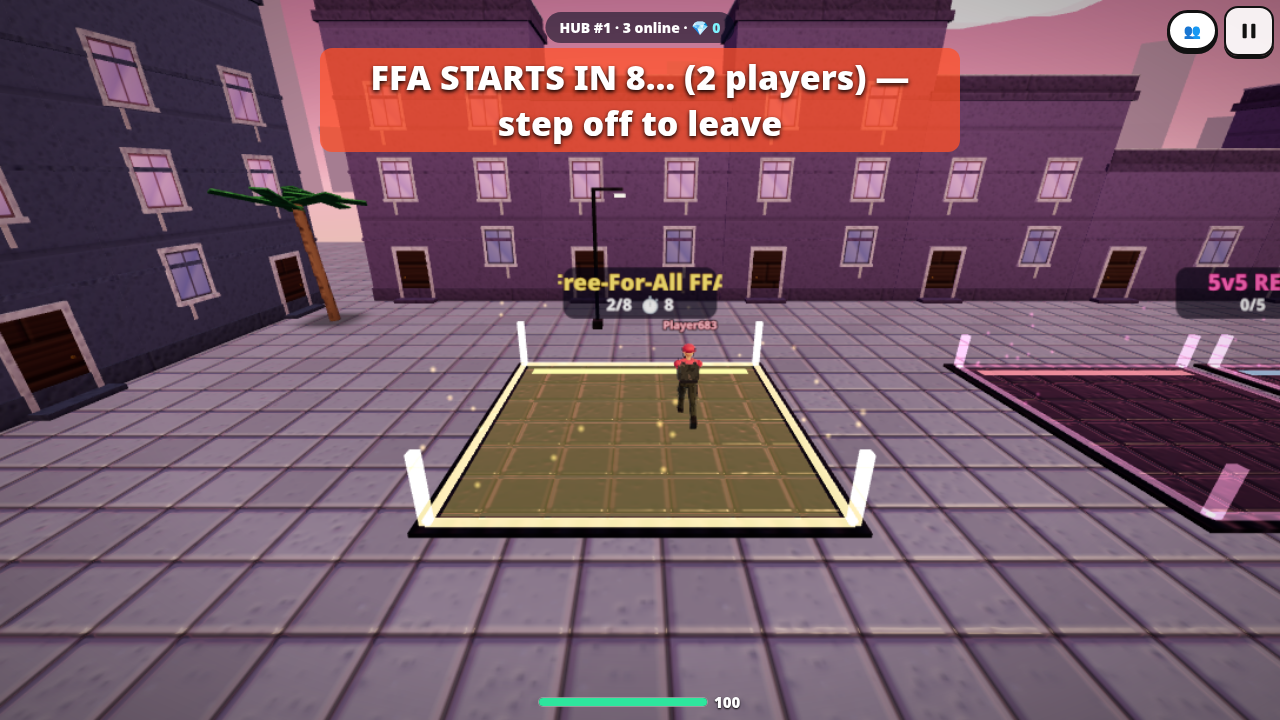
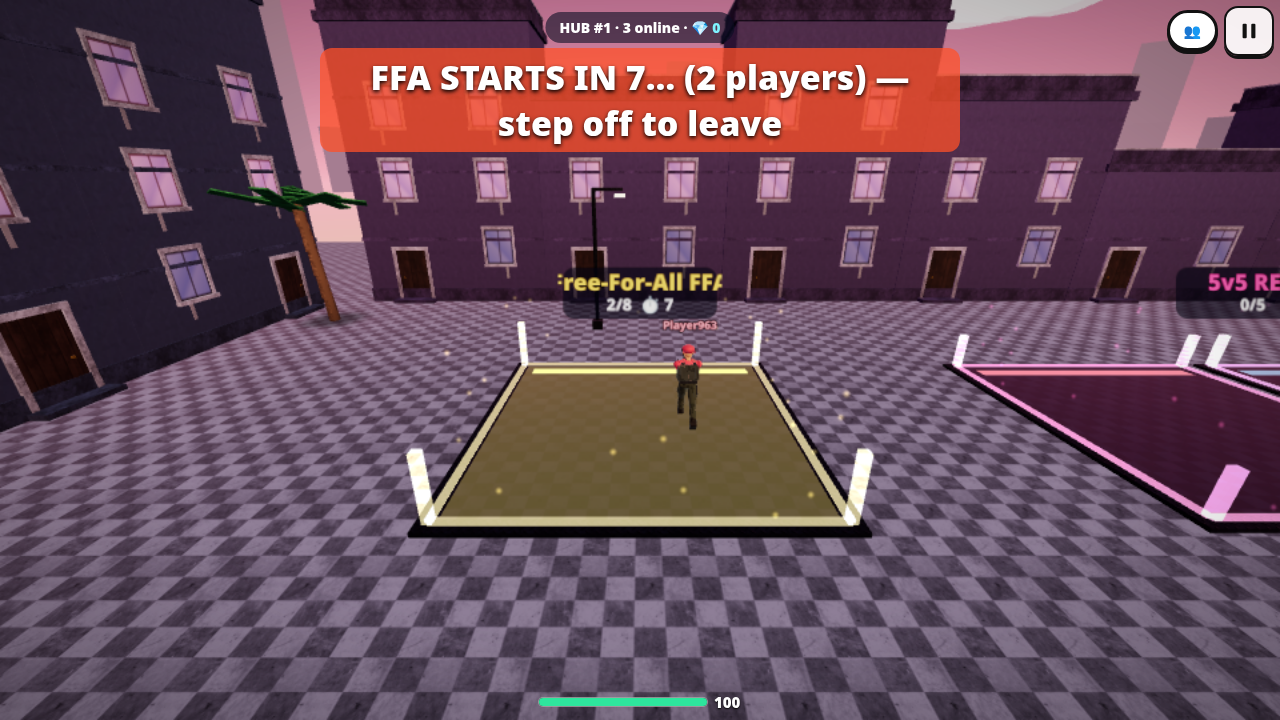
Solo hub FFA: countdown + online/offline choice; joinable solo host (pad/quick/friends join-in-progress replaces bots); fix full check counting bots; v37

diff --git a/game.js b/game.js
@@ -497,7 +497,7 @@ function sendSB(){bcast(sbData())}
 function hostLeave(id){if(!H.players[id])return;delete H.players[id];delete conns[id];bcast({t:'bye',id});if(H.phase==='lobby')sendLobby();else{sendSB();checkRound()}}
 function hostHandle(from,m){const p=H.players[from];
  switch(m.t){
- case 'hello':{if(Object.keys(H.players).length>=MAXP){conns[from]?.send({t:'full'});return}if(!conns[from]){const c=peer.connections?.[from]?.[0];if(c)conns[from]=c}
+ case 'hello':{if(Object.values(H.players).filter(q=>!q.bot).length>=MAXP){conns[from]?.send({t:'full'});return}if(!conns[from]){const c=peer.connections?.[from]?.[0];if(c)conns[from]=c}
   const np=H.players[from]=newP(from,String(m.name||'Player').slice(0,12));np.skin=SKINS[m.skin]?m.skin:'default';np.ws=cleanWS(m.ws);np.cl=clOf(m.cl);np.hid=m.hid||null;
   if(H.phase==='lobby')sendLobby();else{if(H.mode==='ffa'){np.team=from;np.color=FFACOL[plist().length%10]}else{np.team=teamSmaller();np.color=TEAMCOL[np.team]}
    {const mx=MODEMAX[H.mode]||MAXP;if(plist().length>mx){const bs=plist().filter(q=>q.bot&&(H.mode==='ffa'||q.team===np.team));const bt=bs.find(q=>!q.alive)||bs[0];if(bt){delete H.players[bt.id];bcast({t:'bye',id:bt.id})}}}
@@ -1154,15 +1154,18 @@ class HubServer{constructor(peer,n){this.peer=peer;this.n=n;this.cl={};this.ord=
    case 'unreg':delete this.rooms[m.code];break;
    case 'list':this.send(c,{t:'rooms',list:this.roomList(),hub:this.players().length});break;
    case 'ping':this.send(c,{t:'pong',ts:m.ts});break}}
- roomList(){const now=Date.now();for(const k in this.rooms)if(now-this.rooms[k].at>16000)delete this.rooms[k];return Object.values(this.rooms).map(r=>({code:r.code,host:r.host,mode:r.mode,map:r.map,n:r.n,max:r.max,phase:r.phase}))}
+ roomList(){const now=Date.now();for(const k in this.rooms)if(now-this.rooms[k].at>16000)delete this.rooms[k];return Object.values(this.rooms).map(r=>({code:r.code,host:r.host,mode:r.mode,map:r.map,n:r.n,max:r.max,phase:r.phase,hubffa:!!r.hubffa}))}
  drop(id){const c=this.cl[id];if(!c)return;delete this.cl[id];for(const k in this.rooms)if(this.rooms[k].by===id)delete this.rooms[k];if(c.kind==='player'){this.bc({t:'hl',o:c.ord});this.lastPads=''}}
  tick(){const now=Date.now();for(const id in this.cl){const c=this.cl[id];if(!c.local&&now-(c.seen||now)>6000)this.drop(id)}const ps=this.players();const free=ps.filter(p=>!p.busy);
   // queue = who is physically standing inside each circle (server-side check, so leaving a circle unqueues instantly)
   const st={};for(const p of HUB_PADS){st[p.k]={};for(const c of padCircles(p))st[p.k][c.side]=free.filter(q=>inPad(c,q.pos[0],q.pos[2])).sort((a,b)=>a.ord-b.ord).slice(0,p.n).map(q=>q.id)}
   // FFA countdown: 10 s once 2+ stand on the pad; a newcomer keeps at least 5 s left (never resets); full pad starts now; <2 cancels
-  const fp=HUB_PADS.find(p=>p.single);if(fp){const n=st[fp.k].F.length;if(n<2)this.ffaEnd=0;else{if(!this.ffaEnd)this.ffaEnd=now+10000;else if(n>this.ffaN)this.ffaEnd=now+Math.max(this.ffaEnd-now,5000);if(n>=fp.n)this.ffaEnd=now}this.ffaN=n}
+  const fp=HUB_PADS.find(p=>p.single);if(fp){const F=st[fp.k].F;this.soloSeen=this.soloSeen||{};for(const id in this.soloSeen)if(!F.includes(id))delete this.soloSeen[id];
+   // anyone stepping on the FFA pad while a hub solo/online FFA room is open joins it in progress
+   const hr=this.roomList().find(r=>r.hubffa&&r.n<r.max&&r.phase!=='roundEnd');if(hr&&F.length){for(const id of F){const c=this.cl[id];if(c){c.busy=true;this.send(c,{t:'go',code:hr.code,map:-1,mode:'ffa',host:'',teams:{},expect:1,join:1});setTimeout(()=>{if(this.cl[id])this.cl[id].busy=false},8000)}}this.ffaEnd=0;this.lastPads=''}
+   const n=F.length;if(n===1&&this.soloSeen[F[0]]){this.ffaEnd=0}else if(n<1)this.ffaEnd=0;else if(n===1){if(!this.ffaEnd)this.ffaEnd=now+10000}else{if(!this.ffaEnd||this.ffaN<2)this.ffaEnd=now+10000;else if(n>this.ffaN)this.ffaEnd=now+Math.max(this.ffaEnd-now,5000);if(n>=fp.n)this.ffaEnd=now}this.ffaN=n}
   const key=JSON.stringify(st)+'|'+this.ffaEnd;if(key!==this.lastPads){this.lastPads=key;const o={};for(const k in st){o[k]={};for(const s in st[k])o[k][s]=st[k][s].map(id=>this.cl[id].ord)}this.bc({t:'pads',q:o,ffa:this.ffaEnd?Math.max(0,this.ffaEnd-now):0})}
-  for(const p of HUB_PADS){const s=st[p.k];if(p.single){if(this.ffaEnd&&now>=this.ffaEnd&&s.F.length>=2){this.ffaEnd=0;this.ffaN=0;this.startSel(p,s)}}else if(s.A.length>=p.n&&s.B.length>=p.n)this.startSel(p,s)}
+  for(const p of HUB_PADS){const s=st[p.k];if(p.single){if(this.ffaEnd&&now>=this.ffaEnd&&s.F.length>=2){this.ffaEnd=0;this.ffaN=0;this.startSel(p,s)}else if(this.ffaEnd&&now>=this.ffaEnd&&s.F.length===1){this.ffaEnd=0;const id=s.F[0];this.soloSeen[id]=1;const c=this.cl[id];if(c)this.send(c,{t:'solo'});this.lastPads=''}}else if(s.A.length>=p.n&&s.B.length>=p.n)this.startSel(p,s)}
   for(const k in this.sel)if(now>=this.sel[k].until)this.finish(this.sel[k]);
   // hub positions at 8 Hz, compact ints
   if(ps.length>1){const rows=ps.map(p=>[p.ord,Math.round(p.pos[0]*100),Math.round(p.pos[1]*100),Math.round(p.pos[2]*100),Math.round(p.pos[3]*100)]);for(const p of ps)this.send(p,{t:'hpos',p:rows.filter(r=>r[0]!==p.ord)})}}
@@ -1188,6 +1191,7 @@ function hubRecv(m){switch(m.t){
  case 'sel':openMapSel(m);break;
  case 'votes':if(hubSel&&hubSel.sid===m.sid){hubSel.votes=m.votes;renderMapSel()}break;
  case 'go':startHubMatch(m);break;
+ case 'solo':openSolo();break;
  case 'rooms':if(brCb)brCb(m.list,m.hub);break}}
 function enterHubWorld(m){setTimeout(()=>{if(C.hub&&Object.keys(THUMB).length<MAPS.length)renderThumbs()},2500);for(const id in C.players)if(C.players[id].model)scene.remove(C.players[id].model);C.players={};C.byOrd={};C.mode='hub';C.phase='hub';C.map=HUB_I;C.sb={};C.score={};
  loadMap(HUB_I);buildPadVis();for(const s of['menu','lobby','arsenal','settings','browser'])$(s).classList.add('hidden');
@@ -1240,12 +1244,12 @@ function openMapSel(m){hubSel={sid:m.sid,maps:m.maps,votes:[],mine:-1,end:perfor
 function renderMapSel(){if(!hubSel)return;$('mapSelSub').textContent=`${MODES[hubSel.mode][0]} · ${hubSel.names.join(', ')}`;
  const tv=hubSel.votes.length;$('mapSelList').innerHTML=hubSel.maps.map(i=>{const v=hubSel.votes.filter(x=>x===i).length;const pct=tv?Math.round(v/tv*100):Math.round(100/hubSel.maps.length);return`<button class="map${hubSel.mine===i?' sel':''}" data-ms="${i}" style="${THUMB[i]?`background-image:url(${THUMB[i]})`:''}"><span class="vc">${pct}%${v?` · ${v}🗳`:''}</span><span class="mn">${MAPS[i].icon} ${MAPS[i].name}<small>${MAPS[i].desc}</small></span></button>`}).join('')}
 $('mapSelList').addEventListener('click',e=>{const b=e.target.closest('[data-ms]');if(!b||!hubSel)return;hubSel.mine=+b.dataset.ms;hubSend({t:'vote',sid:hubSel.sid,map:hubSel.mine});SFX.swap();renderMapSel()});
-function startHubMatch(m){clearInterval(mapSelIv);$('mapSelT').textContent='GO';center(`${MAPS[m.map].icon} ${MAPS[m.map].name}\nStarting ${MODES[m.mode][0]}…`,3000);
- const auto={mode:m.mode,map:m.map,teams:m.teams,expect:m.expect,fromHub:1};
+function startHubMatch(m){clearInterval(mapSelIv);$('mapSelT').textContent='GO';$('soloSel').classList.add('hidden');center(m.join?'Joining FFA in progress…':`${MAPS[m.map].icon} ${MAPS[m.map].name}\nStarting ${MODES[m.mode][0]}…`,3000);
+ const auto=m.join?null:{mode:m.mode,map:m.map,teams:m.teams,expect:m.expect,fromHub:1,solo:m.solo?1:0};
  setTimeout(()=>{$('mapSel').classList.add('hidden');hubUnlink();leaveHubWorld();C.fromHub=true;sessionStorage.setItem('hsz_fromHub','1');sessionStorage.setItem('hsz_pad',JSON.stringify(lastPad));
   if(m.host===hubSelfId)createRoom(m.code,auto);else setTimeout(()=>joinRoom(m.code,auto),900+Math.random()*400)},900)}
 function leaveHubWorld(){C.hub=false;document.body.classList.remove('hub');$('hubUI').classList.add('hidden');if(hubVis){scene.remove(hubVis.g);hubVis=null}for(const id in C.players)if(C.players[id].model)scene.remove(C.players[id].model);C.players={};inGame=false;C.phase='lobby';$('hud').classList.add('hidden')}
-function setupAuto(){const a=H.auto;H.mode=a.mode;H.fill=true;H.pub=false;H.diff='normal';H.autoAt=H.t+12;sendLobby()}
+function setupAuto(){const a=H.auto;H.mode=a.mode;H.fill=true;H.pub=!!a.solo;H.diff='normal';H.autoAt=a.solo?H.t+.5:H.t+12;sendLobby();if(a.solo){hubKind=null;regRoom()}}
 let sbDirty=0;setInterval(()=>{if(sbDirty&&inGame){sbDirty=0;renderSB()}},250);
 // between-round loadout pick (like duel games: swap weapons while the next round loads)
 function showRL(on){$('rlBtn').classList.toggle('hidden',!on||C.hub||!inGame)}
@@ -1265,7 +1269,7 @@ $('endAgain').onclick=()=>endGo(true);$('endLobby').onclick=()=>endGo(false);
 function afterMatch(){if(C.fromHub||sessionStorage.getItem('hsz_fromHub')){sessionStorage.removeItem('hsz_fromHub');location.href=hubUrl()}}
 // ---------- public rooms: registry, browser, quick join ----------
 let regIv=null;
-function roomInfo(){return{code:roomCode,host:H.players[me.id]?.name||'Host',mode:H.mode,map:H.phase==='lobby'?'Voting':MAPS[H.map].name,n:plist().filter(p=>!p.bot).length,max:MODEMAX[H.mode]||10,phase:H.phase}}
+function roomInfo(){return{code:roomCode,host:H.players[me.id]?.name||'Host',mode:H.mode,map:H.phase==='lobby'?'Voting':MAPS[H.map].name,n:plist().filter(p=>!p.bot).length,max:MODEMAX[H.mode]||10,phase:H.phase,hubffa:!!(H.auto&&H.auto.solo)}}
 function regRoom(){if(!isHost||H.offline)return;if(!H.pub){if(regIv){clearInterval(regIv);regIv=null;hubSend({t:'unreg',code:roomCode})}return}
  hubLink(hubKind||'reg');hubSend({t:'reg',room:roomInfo()});if(!regIv)regIv=setInterval(()=>{if(H.pub)hubSend({t:'reg',room:roomInfo()})},5000)}
 function fetchRooms(cb){brCb=cb;hubLink(hubKind||'browse');if(hubConn&&hubConn.open)hubSend({t:'list'})}
@@ -1437,3 +1441,10 @@ setInterval(()=>{if(hubConn&&hubConn.open&&!hubConn.local)hubSend({t:'ka'})},200
 setTimeout(()=>{if(qLevel()==='low'||/noassets/.test(location.search))return;const bar=$('assetBar');if(bar)bar.classList.remove('hidden');const t0=performance.now();
  loadAssets((f)=>{if(bar)bar.querySelector('i').style.width=Math.round(f*100)+'%'}).then(ok=>{window.__assets={ok,ms:Math.round(performance.now()-t0),ready:HQP.ready};if(bar)bar.classList.add('hidden');for(const k in envCache)delete envCache[k];if(HQP.ready){const ids=rebuildForProps();window.__propSwap=ids;if(cur&&!C.hub&&ids.includes(C.map)){const nm=buildMap(C.map);scene.remove(cur.group);scene.add(nm.group);cur.group=nm.group;cur.hqProps=true;window.__propSwapLive=1}}if(cur)applyQuality()})},+(new URLSearchParams(location.search).get('assetdelay')||400));
 $('openCredits').onclick=()=>$('credits').classList.remove('hidden');$('credClose').onclick=()=>$('credits').classList.add('hidden');
+
+// ---- solo on the hub FFA pad: choose online (public, bots, friends/pad can join) or offline bots ----
+function openSolo(){if(!C.hub)return;SFX.beep(880);$('soloSel').classList.remove('hidden');if(document.pointerLockElement)document.exitPointerLock()}
+$('soloOn').onclick=()=>{$('soloSel').classList.add('hidden');startHubMatch({code:genCode(),map:Math.random()*5|0,mode:'ffa',teams:{},expect:1,solo:1,host:hubSelfId})};
+$('soloOff').onclick=()=>{$('soloSel').classList.add('hidden');hubUnlink();leaveHubWorld();C.fromHub=true;sessionStorage.setItem('hsz_fromHub','1');startOffline();H.mode='ffa';H.auto={mode:'ffa',map:Math.random()*5|0,expect:1,fromHub:1};H.autoAt=H.t+.5;sendLobby()};
+$('soloX').onclick=()=>$('soloSel').classList.add('hidden');
+Object.defineProperty(window.__hsz,'room',{get:()=>({code:roomCode,inGame,offline:!!(H&&H.offline),pub:!!(H&&H.pub),host:isHost})});

diff --git a/index.html b/index.html
@@ -112,6 +112,7 @@
 
 <!-- SETTINGS -->
 <div id="credits" class="screen dim hidden"><div class="card setCard" style="max-height:85vh;overflow:auto"><div class="cardHead">📜 CREDITS</div><p style="font-size:13px">HeadShotz — original game. Sounds are generated in code. HD textures, sky and props are CC0 (public domain) from <a href="https://polyhaven.com" target="_blank" rel="noopener">Poly Haven</a>:</p><ul style="font-size:12px;line-height:1.5;padding-left:18px"><li><b>Concrete Floor 02</b> by Rob Tuytel — Texture: concrete surface · <a href="https://polyhaven.com/a/concrete_floor_02" target="_blank" rel="noopener">source</a> · CC0</li><li><b>Red Brick 03</b> by Rob Tuytel — Texture: brick surface · <a href="https://polyhaven.com/a/red_brick_03" target="_blank" rel="noopener">source</a> · CC0</li><li><b>Brown Planks 03</b> by Rob Tuytel — Texture: planks surface · <a href="https://polyhaven.com/a/brown_planks_03" target="_blank" rel="noopener">source</a> · CC0</li><li><b>Asphalt 02</b> by Rob Tuytel — Texture: asphalt surface · <a href="https://polyhaven.com/a/asphalt_02" target="_blank" rel="noopener">source</a> · CC0</li><li><b>Rock Wall 08</b> by Amal Kumar — Texture: rock surface · <a href="https://polyhaven.com/a/rock_wall_08" target="_blank" rel="noopener">source</a> · CC0</li><li><b>Floor Tiles 06</b> by Rob Tuytel — Texture: tiles surface · <a href="https://polyhaven.com/a/floor_tiles_06" target="_blank" rel="noopener">source</a> · CC0</li><li><b>Metal Plate</b> by Rob Tuytel — Texture: metal surface · <a href="https://polyhaven.com/a/metal_plate" target="_blank" rel="noopener">source</a> · CC0</li><li><b>Leafy Grass</b> by Charlotte Baglioni — Texture: grass surface · <a href="https://polyhaven.com/a/leafy_grass" target="_blank" rel="noopener">source</a> · CC0</li><li><b>Coast Sand 01</b> by Rob Tuytel — Texture: sand surface · <a href="https://polyhaven.com/a/coast_sand_01" target="_blank" rel="noopener">source</a> · CC0</li><li><b>Painted Plaster Wall</b> by Amal Kumar — Texture: plaster surface · <a href="https://polyhaven.com/a/painted_plaster_wall" target="_blank" rel="noopener">source</a> · CC0</li><li><b>Plywood</b> by Rob Tuytel — Texture: crate surface · <a href="https://polyhaven.com/a/plywood" target="_blank" rel="noopener">source</a> · CC0</li><li><b>Kloofendal 48d Partly Cloudy (Pure Sky)</b> by Greg Zaal, Jarod Guest — HDRI sky (environment reflections) · <a href="https://polyhaven.com/a/kloofendal_48d_partly_cloudy_puresky" target="_blank" rel="noopener">source</a> · CC0</li><li><b>Barrel 03</b> by Serhii Khromov — Model: barrels · <a href="https://polyhaven.com/a/barrel_03" target="_blank" rel="noopener">source</a> · CC0</li><li><b>Wooden Crate 02</b> by James Ray Cock, Jurita Burger — Model: crates · <a href="https://polyhaven.com/a/wooden_crate_02" target="_blank" rel="noopener">source</a> · CC0</li></ul><p style="font-size:12px">three.js (MIT) · PeerJS (MIT)</p><button id="credClose" class="btnBig yellow">DONE</button></div></div>
+<div id="soloSel" class="screen dim hidden"><div class="card setCard" style="text-align:center"><div class="cardHead">💥 FREE-FOR-ALL</div><p>You're the only one on the pad. How do you want to play?</p><button id="soloOn" class="btnBig yellow" style="min-height:64px;width:100%;margin:8px 0">🌐 PLAY ONLINE<br><small>bots + friends can join</small></button><button id="soloOff" class="btnBig" style="min-height:64px;width:100%;margin:8px 0">🤖 PLAY OFFLINE WITH BOTS</button><button id="soloX" class="pill" style="min-height:44px;margin-top:6px">Cancel</button></div></div>
 <div id="settings" class="screen dim hidden">
  <div class="card setCard">
   <div class="cardHead">⚙ SETTINGS</div>

diff --git a/sw.js b/sw.js
@@ -1,5 +1,5 @@
 // Network-first service worker: always try fresh files (so updates show), fall back to cache offline.
-const CACHE='headshotz-v36';
+const CACHE='headshotz-v37';
 const ASSETS=['./','index.html','style.css','game.js','maps.js','maps2.js','mapdress.js','wskins.js','gfx.js','weapons.js','chars.js','post.js','assets.js','ice.js','manifest.json','lib/three.module.min.js','lib/peerjs.min.js','lib/localpeer.js','icons/icon-180.png','icons/icon-192.png','icons/icon-512.png'];
 self.addEventListener('install',e=>{self.skipWaiting();e.waitUntil(caches.open(CACHE).then(c=>c.addAll(ASSETS)).catch(()=>{}))});
 self.addEventListener('activate',e=>e.waitUntil(caches.keys().then(k=>Promise.all(k.filter(n=>n!==CACHE).map(n=>caches.delete(n)))).then(()=>self.clients.claim())));
